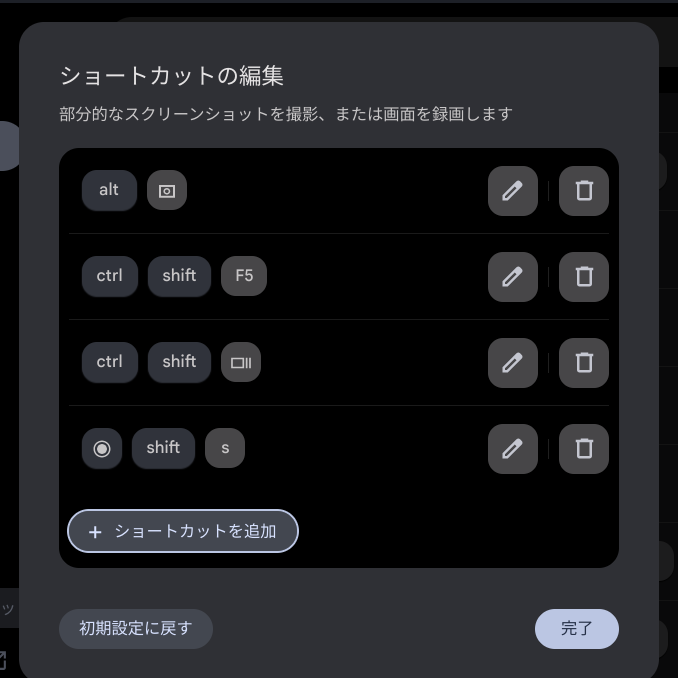
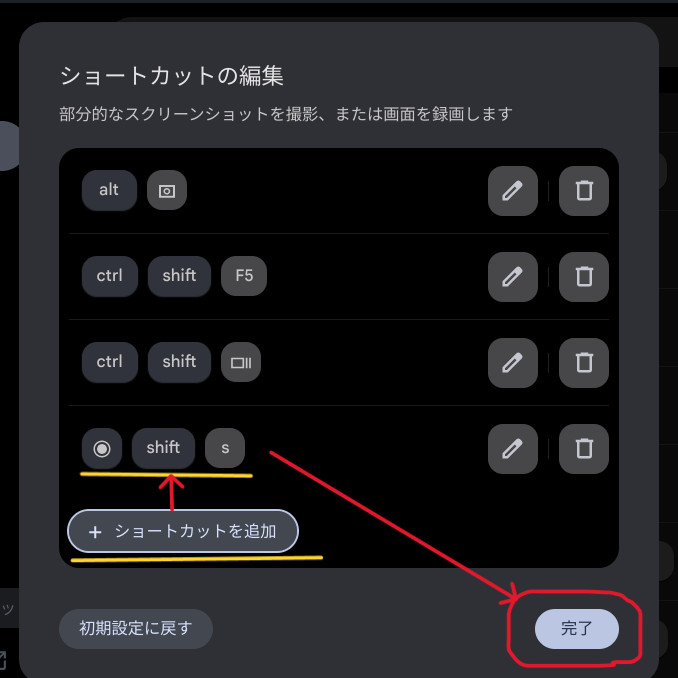
Arrange: New Feature of Chrome OS Flex 123 (#75)

diff --git a/README.md b/README.md
@@ -42,13 +42,9 @@
 - [Chrome OS Flex](https://chromereleases.googleblog.com/search/label/ChromeOS%20Flex)
   - バージョン 123.0.6312.112 <span style="color: red;">*<<2024/04/13 updated from 123.0.6312.111>>*</span>
     ![Chrome OS Flexバージョン情報](./images/Chrome/20240413_Chrome_OS_Flex_123.0.6312.112.png)
-    - 追加された「IPAmj明朝フォント」をVisual Studio Codeで使ってみた
-      ![フォント設定](./images/Chrome/20240406_VSCode_IPAexMincho.png)
-    - キーカスタマイズ
-      ![キーカスタマイズ](./images/Chrome/20240413_Chrome_KeyCustomize.png)
-    - マウスボタンカスタマイズ
-      ![マウスボタンカスタマイズ](./images/Chrome/20240413_Chrome_MouseCustomize1.png)
-      ![マウスボタンカスタマイズ](./images/Chrome/20240413_Chrome_MouseCustomize2.png)
+    - [変更点](https://note.com/taishow2020/n/n2ca56abe2139)
+      - フォントに「IPAmj明朝フォント」が追加
+      - キーボードのショートカットやマウスボタンのカスタマイズが可能
   - [履歴](./history/Chrome.md)
 - [Oracle Cloud](./knowhow/OracleCloud.md)
 
@@ -109,25 +105,36 @@
     ```
   - [【WSL2】Ubuntu 20.04.4 LTS を 22.04 LTS へアップグレードした](https://zenn.dev/ryuu/articles/upgrade-ubuntu2204-wsl)
 - Chrome OS Flex
-  - [インストールガイド](https://support.google.com/chromeosflex/answer/11552529?hl=ja)
-  - Linux開発環境
-    - [ChromebookのLinux環境(日本語)セットアップ](https://3nmt.com/chromebook_linux_japanese/)
-    - [fcitx.confについて](https://qiita.com/suzuki_sh/items/1319b050ba41e03890f5)
-  - github
-    ```
-    git config --global user.name
-    git config --global user.email
-    sudo apt install gnome-keyring
-    ```
-  - gcc
-    ```
-    sudo apt install build-essential
-    sudo apt install gcc
-    ```
-  - Visual Studio Code
-    - コマンドでアップデート
+  - セットアップ
+    - [インストールガイド](https://support.google.com/chromeosflex/answer/11552529?hl=ja)
+    - Linux開発環境
+      - [ChromebookのLinux環境(日本語)セットアップ](https://3nmt.com/chromebook_linux_japanese/)
+      - [fcitx.confについて](https://qiita.com/suzuki_sh/items/1319b050ba41e03890f5)
+      - github
+        ```
+        git config --global user.name
+        git config --global user.email
+        sudo apt install gnome-keyring
+        ```
+      - gcc
+        ```
+        sudo apt install build-essential
+        sudo apt install gcc
+        ```
+      - [VS Codeで日本語入力できるようにする](https://gotoblog.org/chromebook-vscode-japanese/)
+  - アップデート
+    - Visual Studio Code
       ![Upgrade on Chrome OS Flex](./images/Chrome/20240119_code_1.85.2.png)
-    - [VS Codeで日本語入力できるようにする](https://gotoblog.org/chromebook-vscode-japanese/)
+  - カスタマイズ
+    - 追加された「IPAmj明朝フォント」をVisual Studio Codeで使ってみた
+      ![フォント設定](./images/Chrome/20240406_VSCode_IPAexMincho.png)
+    - キーボードのショートカットのカスタマイズ
+      ![ショートカット表示](./images/Chrome/20240413_Chrome_ShortcutCustomize1.png)
+      ![ショートカット一覧](./images/Chrome/20240413_Chrome_ShortcutCustomize2.png)
+      ![ショートカットカスタマイズ](./images/Chrome/20240413_Chrome_ShortcutCustomize3.png)
+    - マウスボタンのカスタマイズ
+      ![マウスボタンカスタマイズ1](./images/Chrome/20240413_Chrome_MouseCustomize1.png)
+      ![マウスボタンカスタマイズ2](./images/Chrome/20240413_Chrome_MouseCustomize2.png)
   - トラブルシューティング
     - Could not create Moklist: Volume Full と出て起動できない
       - 何らかの原因でSecure Bootできなくなったことから、Bios / Secure Boot menuで、Delete all Secure Boot variablesを選択する
